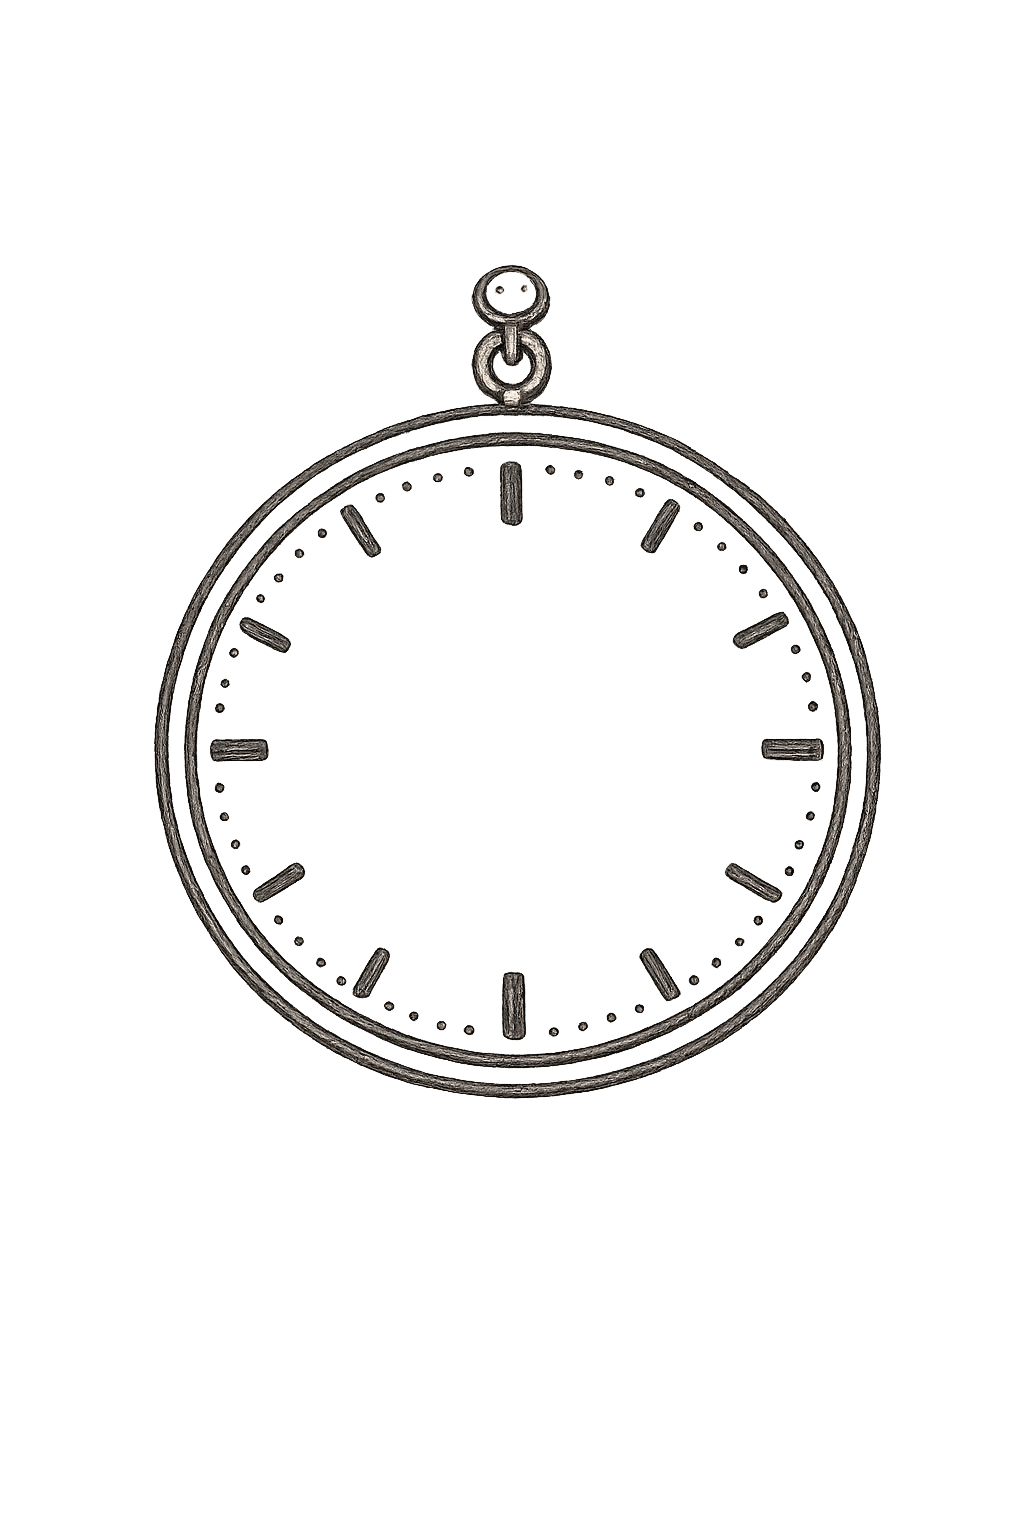
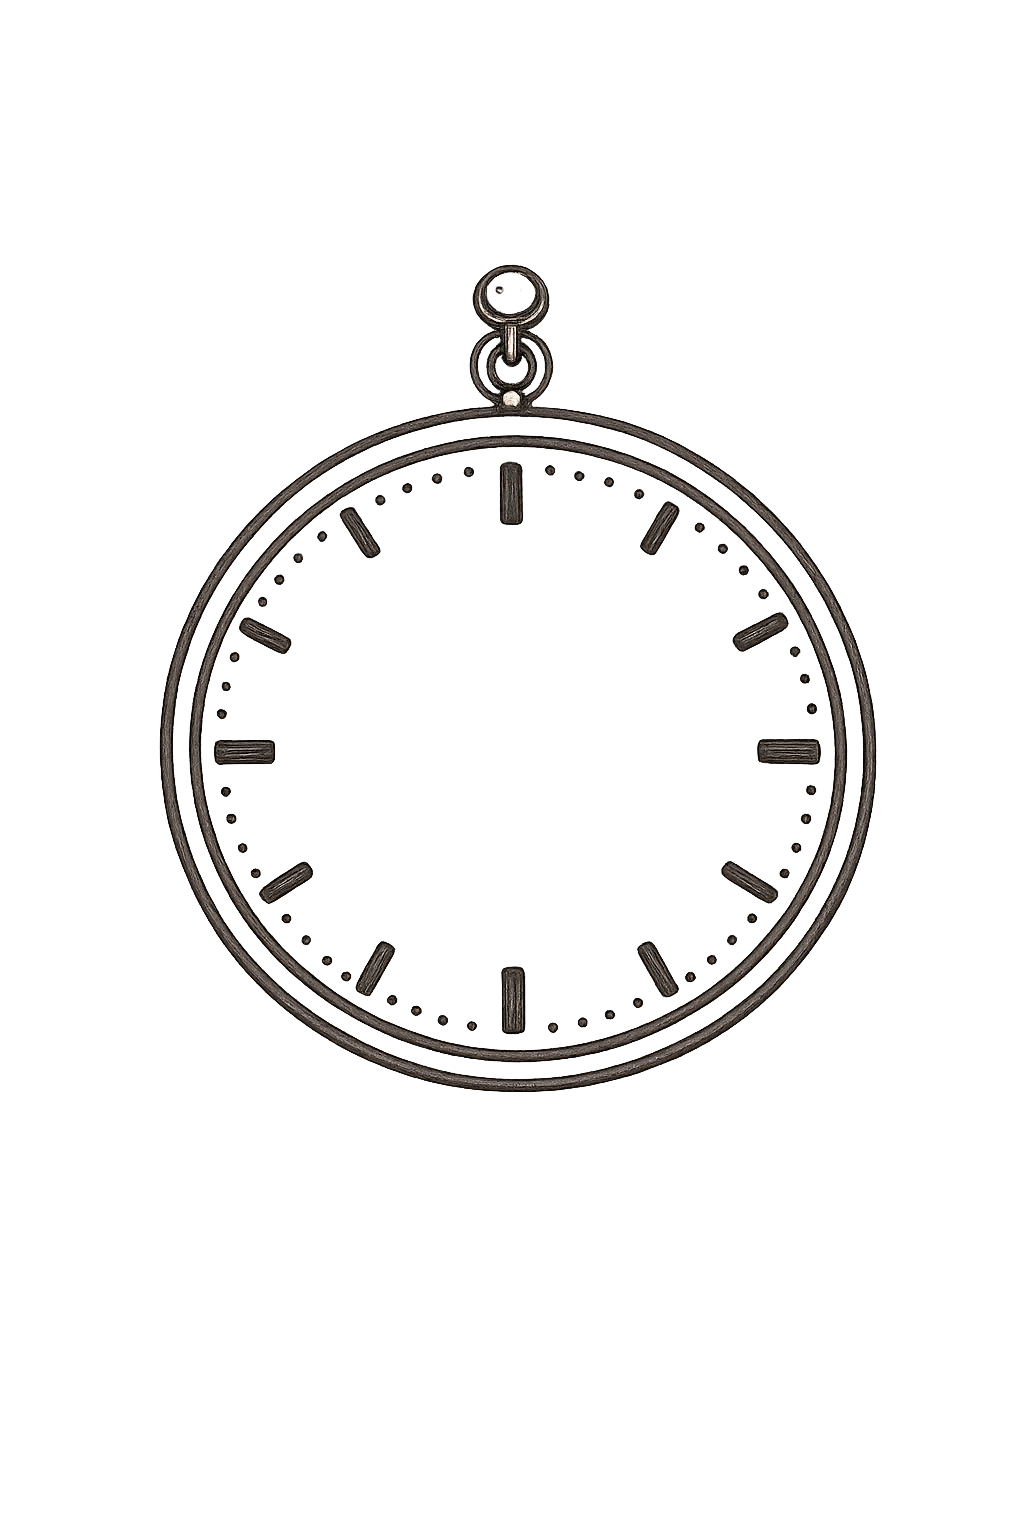
Fix (FE): Adjust clock hand position for improved accuracy

Changed region(s): [[0.125, 0.1562, 0.875, 0.7188]]

diff --git a/frontend/src/items/clock/styles/clock.css b/frontend/src/items/clock/styles/clock.css
@@ -8,7 +8,7 @@
 .clock-hand {
   position: absolute;
   left: 50%;
-  bottom: 50%;
+  bottom: 55%;
   transform-origin: bottom center;
   border-radius: 4px;
 }